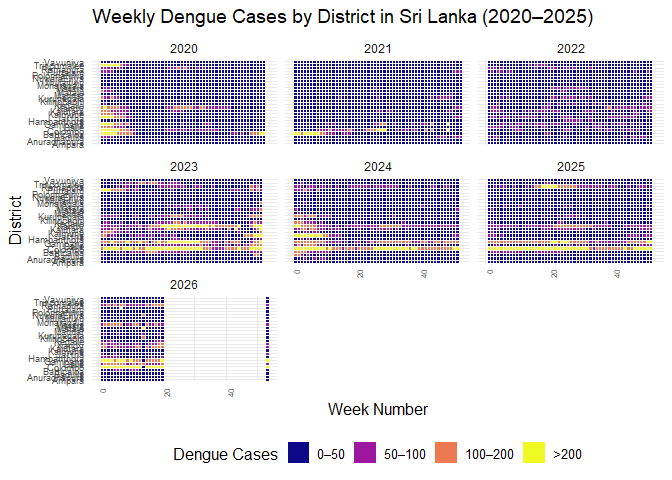
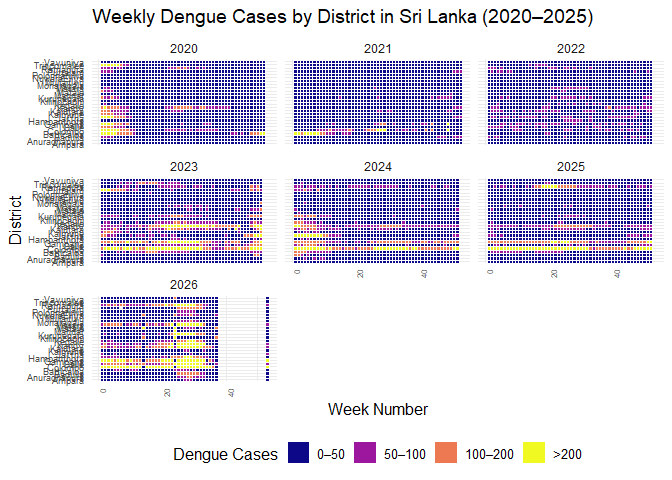
updated

Changed region(s): [[0.25, 0.625, 0.3438, 0.8125]]

diff --git a/README.md b/README.md
@@ -6,9 +6,9 @@
 # denguedatahub <img src="hexsticker/logo.png" align="right" height="180"/>
 
 The goal of `denguedatahub` is to provide the research community with a
-unified dataset by collecting worldwide dengue-related data, merged with
-exogenous variables helpful for a better understanding of the spread of
-dengue and the reproducibility of research.
+unified tidy dataset by collecting worldwide dengue-related data, merged
+with exogenous variables helpful for a better understanding of the
+spread of dengue and the reproducibility of research.
 
 ![](hexsticker/profile.png)
 
@@ -70,14 +70,14 @@ head(srilanka_weekly_data)
 #> 6  2006    52 12/23/2006 12/29/2006 NuwaraEliya     1
 tail(srilanka_weekly_data)
 #> # A tibble: 6 × 6
-#>    year  week start.date end.date  district    cases
-#>   <dbl> <dbl> <chr>      <chr>     <chr>       <dbl>
-#> 1  2026    20 5/11/2026  5/17/2026 Polonnaruwa    13
-#> 2  2026    20 5/11/2026  5/17/2026 Badulla        20
-#> 3  2026    20 5/11/2026  5/17/2026 Monaragala     19
-#> 4  2026    20 5/11/2026  5/17/2026 Ratnapura     168
-#> 5  2026    20 5/11/2026  5/17/2026 Kegalle        73
-#> 6  2026    20 5/11/2026  5/17/2026 Kalmune        24
+#>    year  week start.date end.date   district    cases
+#>   <dbl> <dbl> <chr>      <chr>      <chr>       <dbl>
+#> 1  2026    37 2026-09-07 2026-09-13 Polonnaruwa     1
+#> 2  2026    37 2026-09-07 2026-09-13 Badulla         3
+#> 3  2026    37 2026-09-07 2026-09-13 Monaragala     15
+#> 4  2026    37 2026-09-07 2026-09-13 Ratnapura      34
+#> 5  2026    37 2026-09-07 2026-09-13 Kegalle         4
+#> 6  2026    37 2026-09-07 2026-09-13 Kalmune         0
 ```
 
 ``` r
